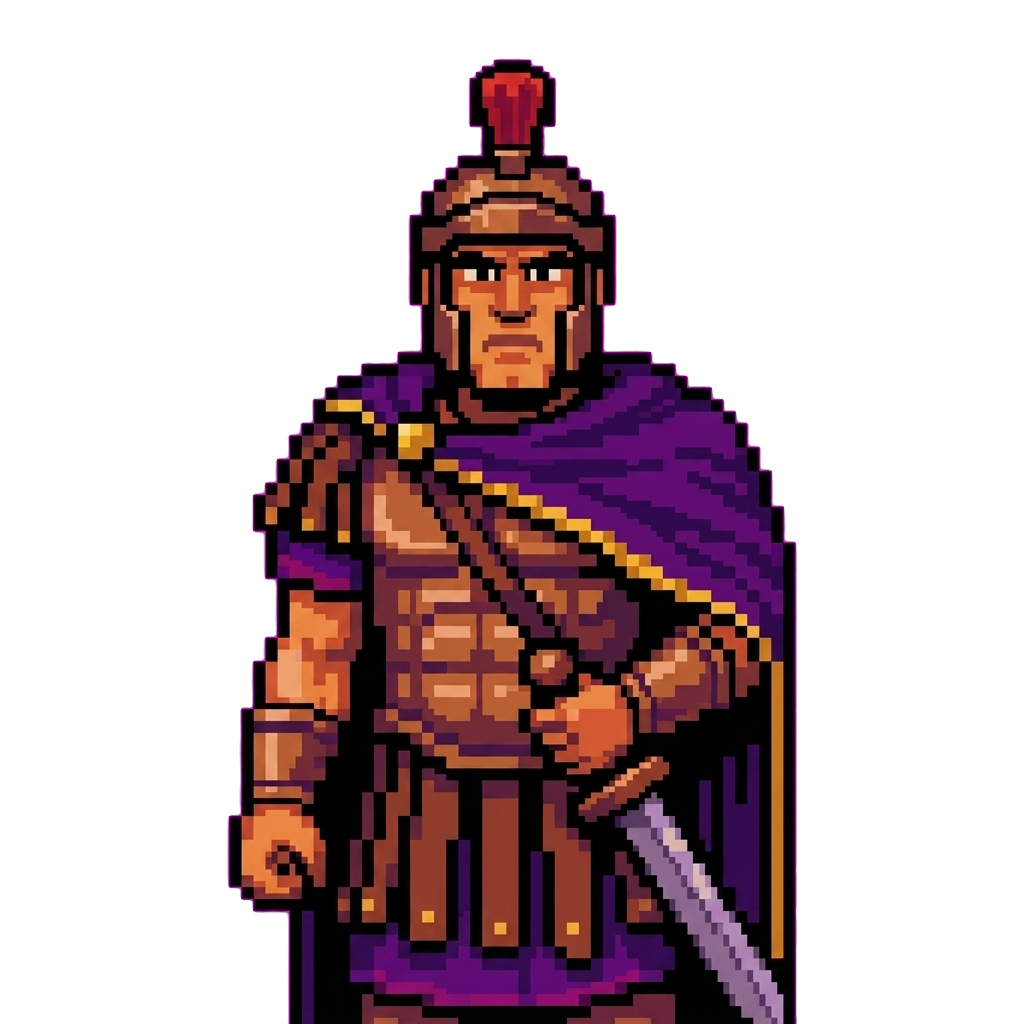
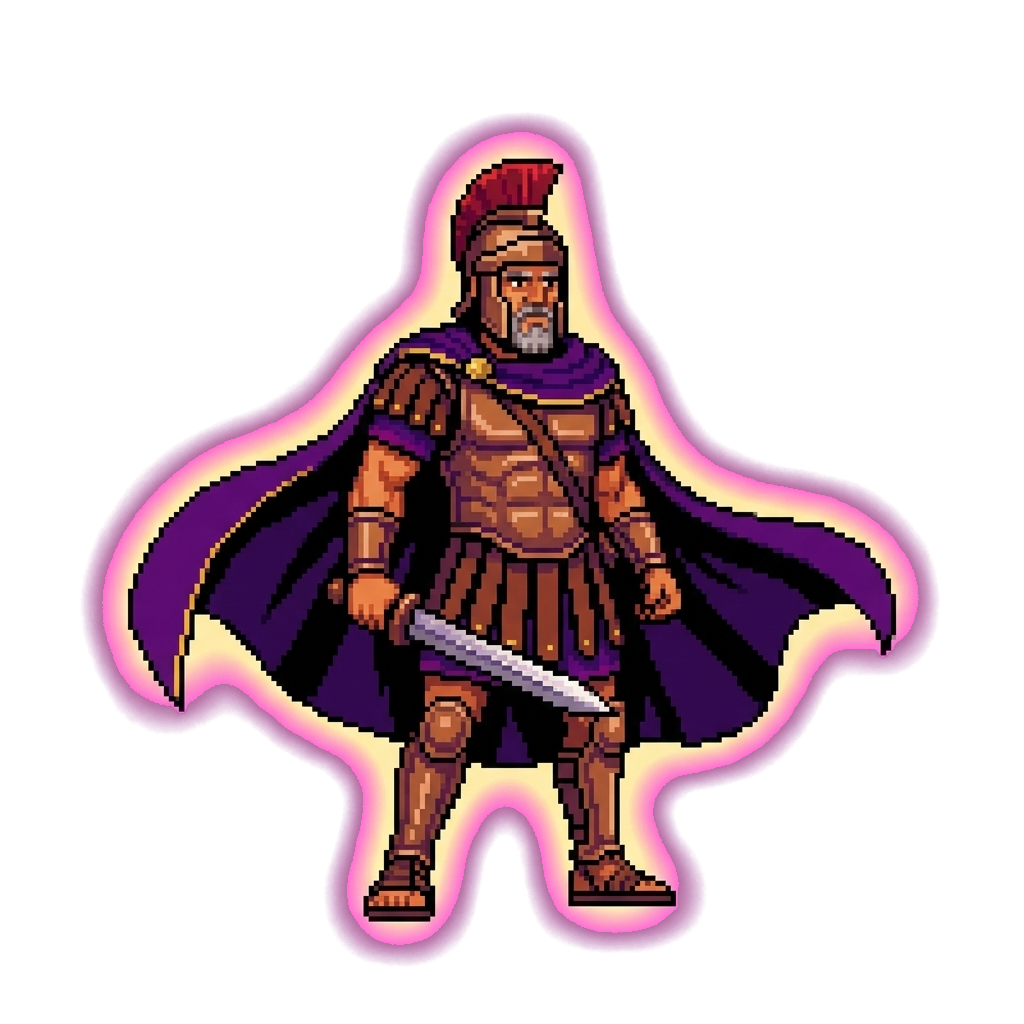
Hero v3 sprites + base-stat buff + tower-style stats on cards
Three threads in one commit because they all touch the hero
draft-and-place experience.

(1) v3 SPRITES — full body + heroic glow + over-the-top vibe
   Regenerated all 6 via Higgs Field img2img using the cards as
   reference. Tightened prompt with: "FULL BODY HEAD TO FEET visible
   including LEGS AND FEET", "character ~65% of canvas height with
   breathing room above head AND below feet", "dramatic over-the-top
   HEROIC pose", "soft GLOWING HEROIC AURA radiating outward —
   ethereal [hero-tint] light, mystical god-tier hero presence",
   "this is a HERO TOWER, not a regular legionary", on solid
   #FF00FF chroma magenta. Python chroma-key script (alpha < 40 →
   transparent, 40-120 graded with edge desaturation, > 120 opaque)
   produces true alpha PNGs.

   Bounding box check shows all 6 now have generous top + bottom
   padding (Marius 121/67, Scipio 96/40, Sulla 45/33) so legs and
   feet are clearly framed inside the canvas. The aura glow does
   reach the edge on some — by design, the user wanted a visible
   heroic presence around the figure.

   `sips -g hasAlpha` returns yes for every sprite. Edge sampling
   shows clean alpha=0 at every corner. The chroma-keyed magenta
   leaves no checkered or solid bleed in the rendered sprite —
   only the character + their heroic glow.

(2) BASE-STAT BUFF — heroes start considerably stronger than T1/T2
   Audit showed heroes were at the BOTTOM of T1 range (avg ~18 dps)
[…]

diff --git a/src/render/ChooseHeroModal.ts b/src/render/ChooseHeroModal.ts
@@ -21,6 +21,23 @@
 import { GameStateShape } from '../GameState';
 import { draftHeroChoices, pickHero, type HeroId } from '../systems/HeroSystem';
 import HERO_DEFS from '../data/herodefs.json';
+// 2026-05-19 — towers.json carries the hero's combat stats (baseDps,
+// attackSpeed, range, damageType, critChance). The draft modal pulls
+// these so the card surfaces the same numbers the in-game inspect
+// panel will show after the player places the hero, helping them
+// compare heroes head-to-head with the rest of their roster.
+import TOWERS_DATA from '../data/towers.json';
+
+// Pretty-print a damageType string (e.g. PHYS_MELEE → "MELEE").
+function prettyDamageType(dt: any): string {
+  const s = String(dt ?? '');
+  if (s === 'PHYS_MELEE')      return 'MELEE';
+  if (s === 'PHYS_RANGED')     return 'RANGED';
+  if (s === 'SIEGE')           return 'SIEGE';
+  if (s === 'ELEMENTAL_FIRE')  return 'FIRE';
+  if (s === 'DIVINE')          return 'DIVINE';
+  return s.replace(/_/g, ' ');
+}
 
 // 2026-05-19 — Defensive passive-description lookup. Most heroes
 // declare a single flat `passive.description`, but Agricola uses a
@@ -311,6 +328,39 @@ function renderHeroCard(heroId: string, def: any, isLastPick: boolean, slot: num
     </div>
   `;
 
+  // Tower-style stats block (DPS / atk speed / range / damage type /
+  // crit). Pulls baseDps × the global +10% spawn buff used by
+  // TowerSystem.createTower so the displayed DPS exactly matches
+  // what the player will see in the in-game inspect panel when they
+  // place the hero. Per-hit damage = baseDps / attackSpeed.
+  const towerStats: any = (TOWERS_DATA as any)[heroId] ?? {};
+  const baseDpsRaw = (towerStats.baseDps ?? 0) * 1.10;   // matches createTower
+  const atkSpd     = towerStats.attackSpeed ?? 1.0;
+  const rangeTiles = towerStats.range ?? 0;
+  const perHit     = atkSpd > 0 ? baseDpsRaw / atkSpd : baseDpsRaw;
+  const dmgTypeLbl = prettyDamageType(towerStats.damageType);
+  const critPct    = Math.round((towerStats.critChance ?? 0) * 100);
+  const critMult   = towerStats.critMult ?? 2.0;
+  // Mini "stat-box" matches the regular tower menu's stat-grid format:
+  // small uppercase label on top, bold value below.
+  const statBox = (label: string, value: string, color = '#e8d6a8') =>
+    `<div style="background:rgba(0,0,0,0.35);padding:6px 8px;border:1px solid #3a2a1a">
+       <div style="color:#aa9a4a;letter-spacing:1.5px;text-transform:uppercase;font-size:8.5px">${label}</div>
+       <div style="color:${color};font-size:13px;font-weight:bold;margin-top:2px">${value}</div>
+     </div>`;
+  const stats = `
+    <div style="font-size:9px;color:#aa9a4a;letter-spacing:2px;margin-bottom:6px">STATS (TIRO BASE)</div>
+    <div style="display:grid;grid-template-columns:1fr 1fr 1fr;gap:4px;margin-bottom:clamp(12px,1.8vh,18px)">
+      ${statBox('DAMAGE / HIT', perHit.toFixed(1), '#ee9966')}
+      ${statBox('ATK SPEED',    atkSpd.toFixed(2) + ' /s')}
+      ${statBox('RANGE',        rangeTiles + ' tiles')}
+      ${statBox('DPS',          baseDpsRaw.toFixed(1), '#ffbe7a')}
+      ${statBox('CRIT',         critPct + '%' + (critPct > 0 ? ' × ' + critMult.toFixed(1) : ''))}
+      ${statBox('TYPE',         dmgTypeLbl, tint)}
+    </div>
+    <div style="font-size:9px;color:#5a8a5a;letter-spacing:1px;margin-top:-10px;margin-bottom:clamp(10px,1.6vh,16px);font-style:italic">↑ Scales 1.0× → 2.4× across the 5 tiers as XP rises.</div>
+  `;
+
   // "Built for:" callout
   const builtFor = def.playerProblemSolved
     ? `
@@ -354,6 +404,7 @@ function renderHeroCard(heroId: string, def: any, isLastPick: boolean, slot: num
     ${slotChip}
     ${lastPickBadge}
     <div style="padding: clamp(14px, 2vh, 22px) clamp(14px, 2vw, 20px);">
+      ${stats}
       ${builtFor}
       ${passive}
       <div style="font-size: 9px; color: #aa9a4a; letter-spacing: 2px; margin-bottom: 6px; padding-top: 4px; border-top: 1px dashed #3a2a1a;">ABILITIES</div>
